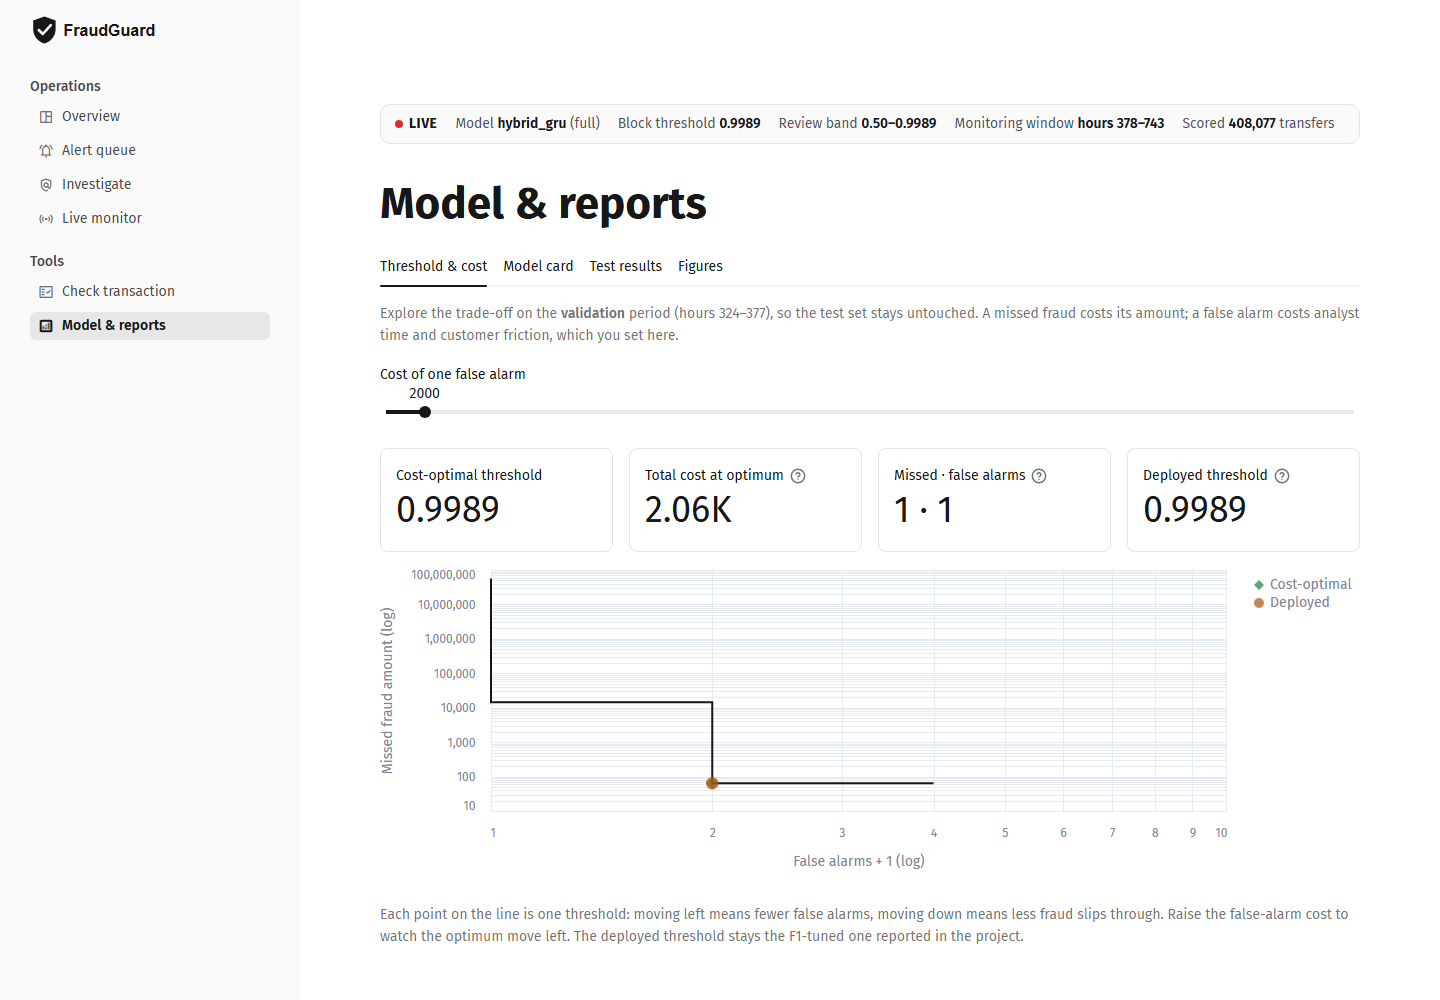
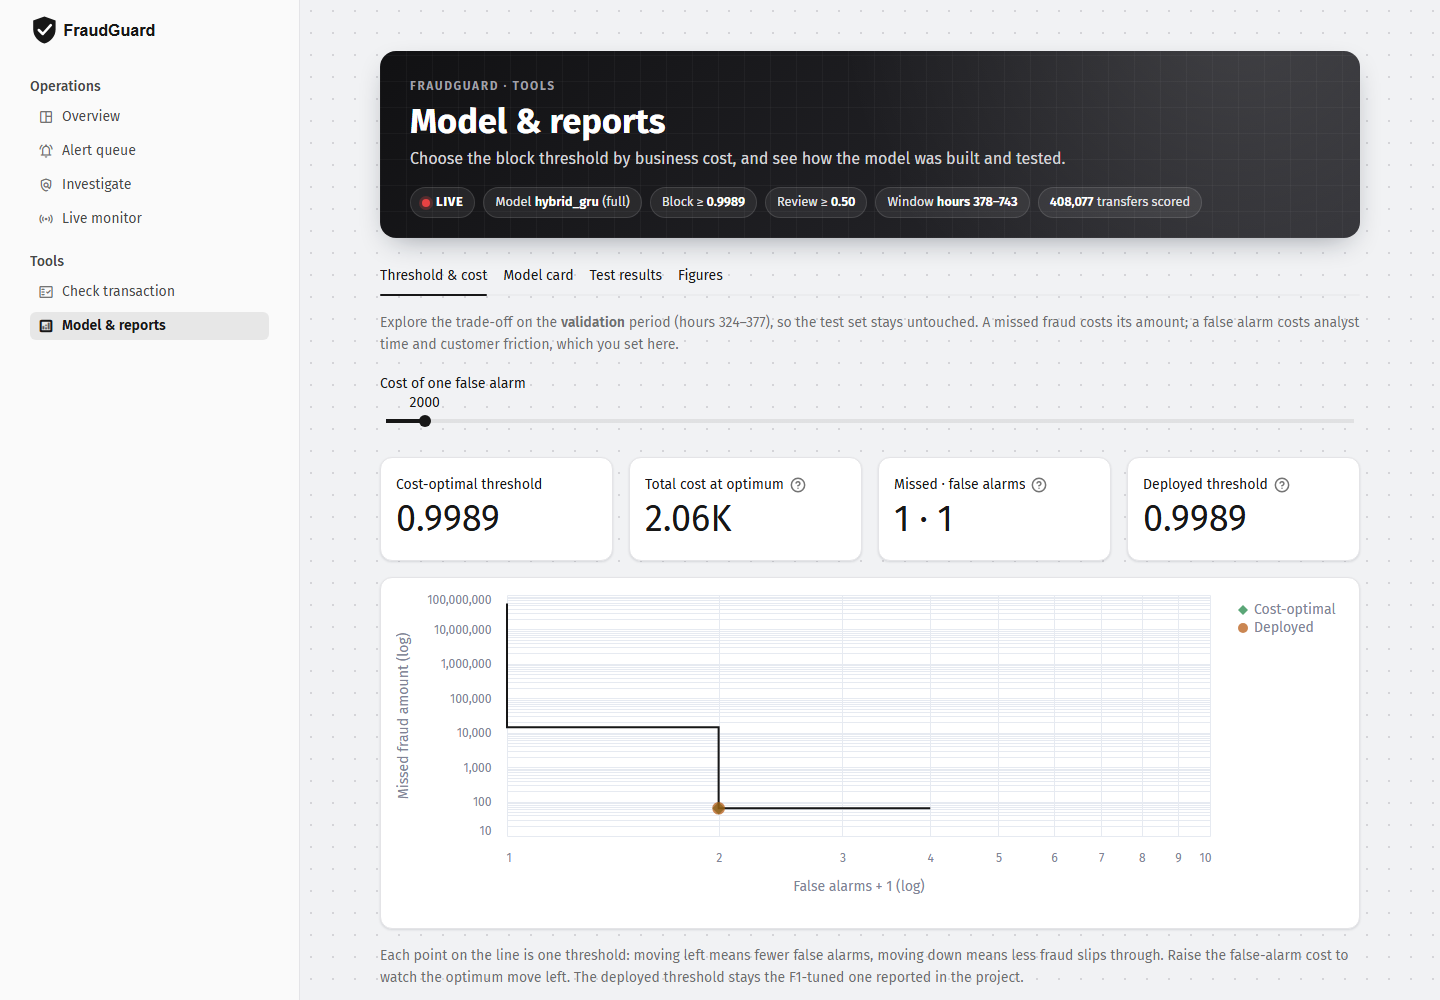
docs: update screenshots and design notes for the card layout

diff --git a/docs/PROJECT_DOCUMENTATION.md b/docs/PROJECT_DOCUMENTATION.md
@@ -377,8 +377,8 @@ Every transfer is scored and given one of three decisions: **BLOCK** (probabilit
 validation-tuned threshold, 0.9989), **REVIEW** (0.50 up to the threshold, sent to an analyst) or
 **APPROVE**. Decisions are always shown as text as well as colour (red, amber, green).
 
-Run with `streamlit run app/streamlit_app.py`. The design is a light monochrome style (white surfaces,
-charcoal text and controls, Fira Sans / Fira Code, SVG logo and Material icons, no emoji). Red, amber and
+Run with `streamlit run app/streamlit_app.py`. The design is a light monochrome style: a charcoal header band on every page (title, purpose and
+live status), a soft grey dotted canvas with white elevated cards, charcoal text and controls, Fira Sans / Fira Code, SVG logo and Material icons, no emoji). Red, amber and
 green appear only for risk decisions, in shades that keep at least 4.5:1 contrast on white. The console has
 six pages in two groups. Each page has
 its own address: `/` (Overview), `/alerts`, `/investigate?txn=<id>`, `/live`, `/check?example=fraud` (loads
